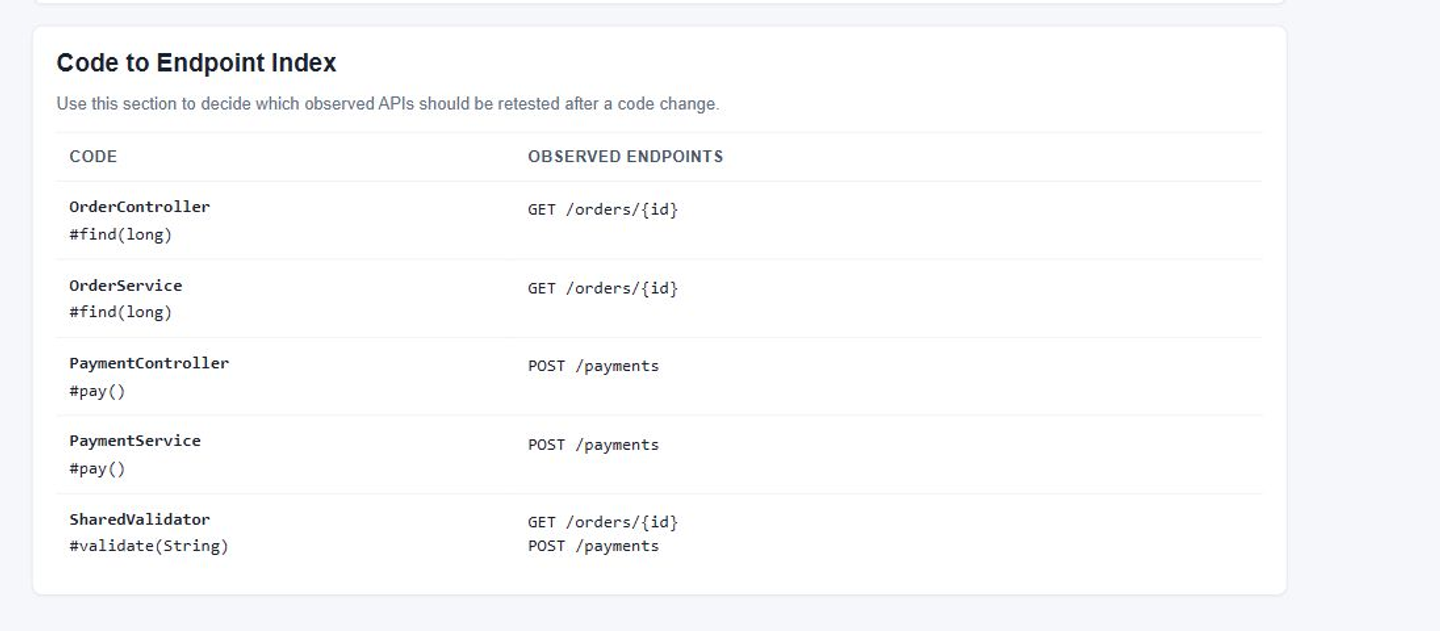
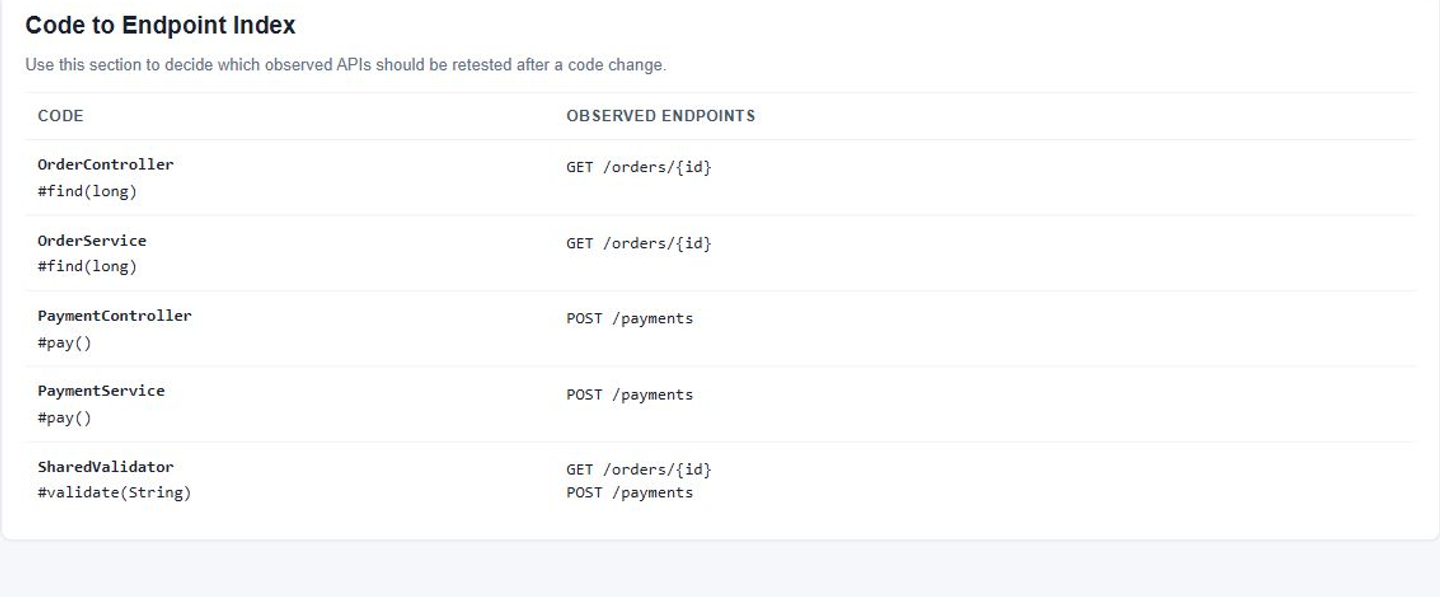
docs: harden demo reproduction workflow

diff --git a/docs/superpowers/plans/2026-07-31-reqover-readme-refresh.md b/docs/superpowers/plans/2026-07-31-reqover-readme-refresh.md
@@ -170,14 +170,20 @@ $mvcErrLog = Join-Path $env:TEMP 'reqover-readme-mvc.err.log'
 $mvcJar = (Resolve-Path '.\examples\mvc-sample\build\libs\mvc-sample-0.1.0-SNAPSHOT.jar').Path
 $mvcProcess = Start-Process `
   -FilePath "$env:JAVA_HOME\bin\java.exe" `
-  -ArgumentList @('-jar', $mvcJar, '--server.port=18082', '--spring.main.banner-mode=off') `
+  -ArgumentList @(
+    '-jar',
+    $mvcJar,
+    '--server.address=127.0.0.1',
+    '--server.port=18082',
+    '--spring.main.banner-mode=off'
+  ) `
   -RedirectStandardOutput $mvcOutLog `
   -RedirectStandardError $mvcErrLog `
   -WindowStyle Hidden `
   -PassThru
 ```
 
-Poll `http://localhost:18082/reqover/report` for up to 45 seconds. If the process exits or readiness does not succeed, print `$mvcOutLog` and `$mvcErrLog`, stop, and investigate before taking screenshots.
+Poll `http://127.0.0.1:18082/reqover/report` for up to 45 seconds. If the process exits or readiness does not succeed, print `$mvcOutLog` and `$mvcErrLog`, stop, and investigate before taking screenshots.
 
 Use this exact readiness check:
 
@@ -191,7 +197,7 @@ while ((Get-Date) -lt $mvcDeadline) {
     throw "MVC sample exited with code $($mvcProcess.ExitCode)."
   }
   try {
-    Invoke-RestMethod 'http://localhost:18082/reqover/report' -TimeoutSec 2 | Out-Null
+    Invoke-RestMethod 'http://127.0.0.1:18082/reqover/report' -TimeoutSec 2 | Out-Null
     $mvcReady = $true
     break
   } catch {
@@ -210,9 +216,9 @@ if (-not $mvcReady) {
 Run:
 
 ```powershell
-Invoke-RestMethod 'http://localhost:18082/orders/1' | Out-Null
-Invoke-RestMethod -Method Post 'http://localhost:18082/payments' | Out-Null
-$mvcReport = Invoke-RestMethod 'http://localhost:18082/reqover/report'
+Invoke-RestMethod 'http://127.0.0.1:18082/orders/1' | Out-Null
+Invoke-RestMethod -Method Post 'http://127.0.0.1:18082/payments' | Out-Null
+$mvcReport = Invoke-RestMethod 'http://127.0.0.1:18082/reqover/report'
 
 if ($mvcReport.completedRequestCount -ne 2) { throw 'Expected two completed MVC requests.' }
 if ($mvcReport.endpoints.endpoint -notcontains 'GET /orders/{id}') { throw 'Missing orders endpoint.' }
@@ -228,7 +234,7 @@ Expected: two endpoint cards and a `SharedValidator` reverse-index row containin
 
 - [ ] **Step 4: Capture the MVC and reverse-index images**
 
-Open `http://localhost:18082/reqover/report.html` in an automated browser with a 1440px viewport.
+Open `http://127.0.0.1:18082/reqover/report.html` in an automated browser with a 1440px viewport.
 
 Capture:
 
@@ -246,7 +252,7 @@ const page = await browser.newPage({
   viewport: { width: 1440, height: 1000 },
   deviceScaleFactor: 1,
 });
-await page.goto('http://localhost:18082/reqover/report.html', {
+await page.goto('http://127.0.0.1:18082/reqover/report.html', {
   waitUntil: 'networkidle',
 });
 await page.locator('.index-panel').evaluate((element) => {
@@ -287,6 +293,7 @@ $webfluxProcess = Start-Process `
     "-javaagent:$agentJar=include=io.reqover.example.webflux.auto",
     '-jar',
     $webfluxJar,
+    '--server.address=127.0.0.1',
     '--server.port=18083',
     '--spring.main.banner-mode=off'
   ) `
@@ -296,7 +303,7 @@ $webfluxProcess = Start-Process `
   -PassThru
 ```
 
-Poll `http://localhost:18083/reqover/report` for up to 45 seconds with the same early-exit diagnostics as the MVC process.
+Poll `http://127.0.0.1:18083/reqover/report` for up to 45 seconds with the same early-exit diagnostics as the MVC process.
 
 Use this exact readiness check:
 
@@ -310,7 +317,7 @@ while ((Get-Date) -lt $webfluxDeadline) {
     throw "WebFlux sample exited with code $($webfluxProcess.ExitCode)."
   }
   try {
-    Invoke-RestMethod 'http://localhost:18083/reqover/report' -TimeoutSec 2 | Out-Null
+    Invoke-RestMethod 'http://127.0.0.1:18083/reqover/report' -TimeoutSec 2 | Out-Null
     $webfluxReady = $true
     break
   } catch {
@@ -327,8 +334,8 @@ if (-not $webfluxReady) {
 - [ ] **Step 7: Generate and assert the WebFlux report data**
 
 ```powershell
-Invoke-RestMethod 'http://localhost:18083/auto/reactive/orders/42' | Out-Null
-$webfluxReport = Invoke-RestMethod 'http://localhost:18083/reqover/report'
+Invoke-RestMethod 'http://127.0.0.1:18083/auto/reactive/orders/42' | Out-Null
+$webfluxReport = Invoke-RestMethod 'http://127.0.0.1:18083/reqover/report'
 $reactive = $webfluxReport.endpoints | Where-Object {
   $_.endpoint -eq 'GET /auto/reactive/orders/{id}'
 }
@@ -347,7 +354,7 @@ if (@($reactive.threadNames).Count -lt 2) {
 
 - [ ] **Step 8: Capture the WebFlux thread-hop image**
 
-Open `http://localhost:18083/reqover/report.html` at a 1440px viewport and capture the summary plus the reactive endpoint card, including its thread chips, as:
+Open `http://127.0.0.1:18083/reqover/report.html` at a 1440px viewport and capture the summary plus the reactive endpoint card, including its thread chips, as:
 
 ```text
 docs/assets/reqover-webflux-thread-hop.png
@@ -362,7 +369,7 @@ const page = await browser.newPage({
   viewport: { width: 1440, height: 1000 },
   deviceScaleFactor: 1,
 });
-await page.goto('http://localhost:18083/reqover/report.html', {
+await page.goto('http://127.0.0.1:18083/reqover/report.html', {
   waitUntil: 'networkidle',
 });
 await page.locator('.index-panel').evaluate((element) => {
@@ -389,7 +396,7 @@ if (Get-NetTCPConnection -State Listen -LocalPort 18083 -ErrorAction SilentlyCon
 
 Create `docs/16_readme_demo_capture.md` with this content:
 
-```markdown
+````markdown
 # 16. README Demo Capture
 
 ## Purpose
@@ -409,28 +416,40 @@ Reqover builds with JDK 21 and emits Java 17-compatible bytecode.
 
 ## Build
 
+Configure a JDK 21 installation through `JAVA_HOME` and ensure its `bin` directory is on `Path`, then run:
+
 ```powershell
-# Configure JAVA_HOME for an installed JDK 21 before running this command.
-$env:Path = "$env:JAVA_HOME\bin;$env:Path"
 .\gradlew.bat clean test --no-daemon --console=plain
 .\gradlew.bat :reqover-agent:jar :examples:mvc-sample:bootJar :examples:webflux-sample:bootJar cyclonedxBom --no-daemon --console=plain
 ```
 
 ## MVC Request Attribution
 
-Start `mvc-sample` on port `18082`, then call:
+> [!WARNING]
+> The sample HTML report has no authentication. Restrict it to loopback access and never expose its port to a public or untrusted network.
+
+Start `mvc-sample` on loopback port `18082` with the built jar:
 
 ```powershell
-Invoke-RestMethod 'http://localhost:18082/orders/1'
-Invoke-RestMethod -Method Post 'http://localhost:18082/payments'
-Invoke-RestMethod 'http://localhost:18082/reqover/report'
+java -jar examples/mvc-sample/build/libs/mvc-sample-0.1.0-SNAPSHOT.jar `
+  --server.address=127.0.0.1 `
+  --server.port=18082 `
+  --spring.main.banner-mode=off
+```
+
+While the sample keeps running, call it from another terminal:
+
+```powershell
+Invoke-RestMethod 'http://127.0.0.1:18082/orders/1'
+Invoke-RestMethod -Method Post 'http://127.0.0.1:18082/payments'
+Invoke-RestMethod 'http://127.0.0.1:18082/reqover/report'
 ```
 
 Verified results:
 
 - `completedRequestCount` is `2`.
 - `GET /orders/{id}` and `POST /payments` are separate endpoint entries.
-- `SharedValidator` maps back to both observed endpoints.
+- `SharedValidator` maps back to both observed endpoints. The current manual-probe metadata deliberately reports the simple class name rather than the fully qualified name.
 
 Assets:
 
@@ -439,11 +458,15 @@ Assets:
 
 ## WebFlux Java-Agent Attribution
 
+> [!WARNING]
+> Keep the unauthenticated report on `127.0.0.1`; do not publish port `18083` to a public or untrusted network.
+
 Run the WebFlux jar with:
 
 ```powershell
 java "-javaagent:reqover-agent/build/libs/reqover-agent-0.1.0-SNAPSHOT.jar=include=io.reqover.example.webflux.auto" `
   -jar examples/webflux-sample/build/libs/webflux-sample-0.1.0-SNAPSHOT.jar `
+  --server.address=127.0.0.1 `
   --server.port=18083 `
   --spring.main.banner-mode=off
 ```
@@ -451,14 +474,14 @@ java "-javaagent:reqover-agent/build/libs/reqover-agent-0.1.0-SNAPSHOT.jar=inclu
 Then call:
 
 ```powershell
-Invoke-RestMethod 'http://localhost:18083/auto/reactive/orders/42'
-Invoke-RestMethod 'http://localhost:18083/reqover/report'
+Invoke-RestMethod 'http://127.0.0.1:18083/auto/reactive/orders/42'
+Invoke-RestMethod 'http://127.0.0.1:18083/reqover/report'
 ```
 
 Verified results:
 
 - `GET /auto/reactive/orders/{id}` is present.
-- `AutoReactiveOrderController` and `AutoReactiveOrderService` were inserted by the Java agent.
+- The Java agent automatically instruments method entry for `AutoReactiveOrderController` and `AutoReactiveOrderService`.
 - The request bucket contains multiple thread names from the reactive execution.
 
 Asset:
@@ -467,7 +490,9 @@ Asset:
 
 ## Interpretation Boundary
 
-Reqover reports execution relationships observed in these requests. An absent relationship does not prove that a code path can never affect an endpoint.
+Observed code-to-endpoint relationships are a lower bound: Reqover reports only execution relationships seen in the captured requests, so an absent relationship does not prove that a code path can never affect an endpoint.
+
+Reqover complements aggregate coverage tools such as JaCoCo by adding request attribution. It does not replace JaCoCo or aggregate coverage reporting.
 
 ## Troubleshooting
 
@@ -476,7 +501,7 @@ Reqover reports execution relationships observed in these requests. An absent re
 - Call a business endpoint before opening the report.
 - Confirm the Java-agent `include=` prefix matches the sample package.
 - Stop the sample JVM after capture; do not commit process logs or build outputs.
-```
+````
 
 - [ ] **Step 11: Visually inspect all three assets**
 
@@ -583,6 +608,9 @@ Java agent가 controller와 service의 method entry를 자동 계측합니다. r
 
 Reqover가 생성하는 bytecode target은 Java 17입니다. 현재 CI는 JDK 21에서 검증합니다.
 
+> [!WARNING]
+> Sample report endpoint에는 인증이 없습니다. 아래 Quickstart 명령은 `SERVER_ADDRESS`를 `127.0.0.1`로 명시해 loopback에만 바인딩합니다. 이 설정을 제거하거나 port를 public 또는 신뢰할 수 없는 네트워크에 노출하지 마십시오.
+
 ### Windows PowerShell
 
 ```powershell
@@ -591,6 +619,7 @@ Set-Location .\reqover
 
 # Configure JAVA_HOME for your installed JDK 21.
 $env:Path = "$env:JAVA_HOME\bin;$env:Path"
+$env:SERVER_ADDRESS = '127.0.0.1'
 
 .\gradlew.bat test
 .\scripts\run-agent-demo.ps1 -App mvc -Port 8080
@@ -609,6 +638,8 @@ http://localhost:8080/reqover/report.html
 ```bash
 git clone https://github.com/reqover-labs/reqover.git
 cd reqover
+
+export SERVER_ADDRESS=127.0.0.1
 
 ./gradlew test
 ./scripts/run-agent-demo.sh mvc 8080
@@ -728,7 +759,7 @@ build/reports/bom/reqover-sbom.json
 - snapshot은 in-memory로 유지되며 기본 상한 10,000건을 넘으면 오래된 항목부터 제거합니다.
 - report는 관측된 요청의 실행 관계만 보여줍니다. 보이지 않은 관계가 없다는 증거가 아닙니다.
 - code-to-endpoint index는 우선 재검증 대상을 좁히는 신호이며 완전한 변경 영향 분석을 보장하지 않습니다.
-- sample의 `/reqover/report`와 `/reqover/report.html`에는 인증이 없습니다. 공개 네트워크에 노출하지 마십시오.
+- sample의 `/reqover/report`와 `/reqover/report.html`에는 인증이 없습니다. Quickstart의 `SERVER_ADDRESS=127.0.0.1` loopback 설정을 유지하고 public 또는 신뢰할 수 없는 네트워크에 노출하지 마십시오.
 - 현재는 production always-on agent가 아니라 개발·QA·staging 관측을 우선합니다.
 
 ## Performance

diff --git a/docs/16_readme_demo_capture.md b/docs/16_readme_demo_capture.md
@@ -29,7 +29,16 @@ Configure a JDK 21 installation through `JAVA_HOME` and ensure its `bin` directo
 > [!WARNING]
 > The sample HTML report has no authentication. Restrict it to loopback access and never expose its port to a public or untrusted network.
 
-Start `mvc-sample` on port `18082` with `--server.address=127.0.0.1`, then call:
+Start `mvc-sample` on loopback port `18082` with the built jar:
+
+```powershell
+java -jar examples/mvc-sample/build/libs/mvc-sample-0.1.0-SNAPSHOT.jar `
+  --server.address=127.0.0.1 `
+  --server.port=18082 `
+  --spring.main.banner-mode=off
+```
+
+While the sample keeps running, call it from another terminal:
 
 ```powershell
 Invoke-RestMethod 'http://127.0.0.1:18082/orders/1'
@@ -73,7 +82,7 @@ Invoke-RestMethod 'http://127.0.0.1:18083/reqover/report'
 Verified results:
 
 - `GET /auto/reactive/orders/{id}` is present.
-- `AutoReactiveOrderController` and `AutoReactiveOrderService` were inserted by the Java agent.
+- The Java agent automatically instruments method entry for `AutoReactiveOrderController` and `AutoReactiveOrderService`.
 - The request bucket contains multiple thread names from the reactive execution.
 
 Asset:
